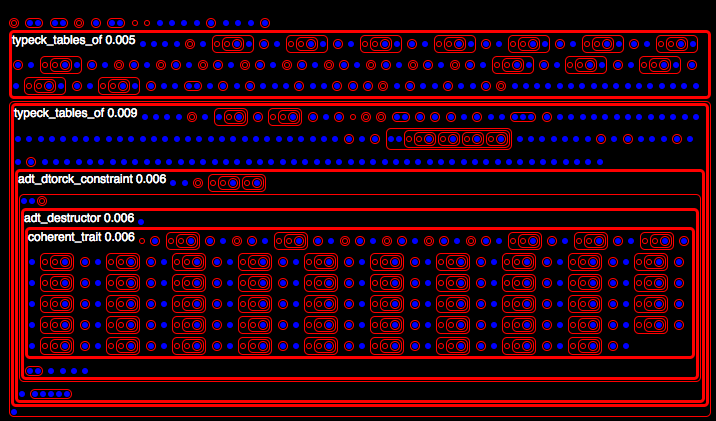
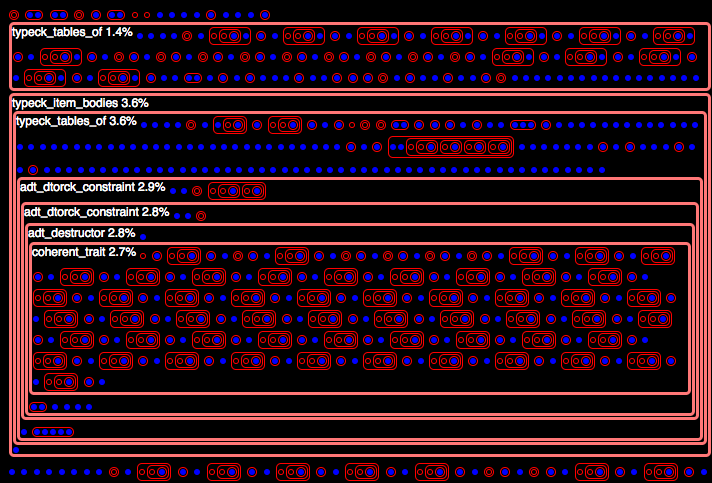
updated doc for updated output, with fractions

diff --git a/profile-queries.md b/profile-queries.md
@@ -11,13 +11,13 @@ how we profile it. We intend this profiling effort to address
 
 ## Quick Start
 
-1. Compile the compiler, as usual
+Compile the compiler, as usual:
 
 ```
 python x.py --stage 1
 ```
 
-2. Run the compiler on a source file:
+Run the compiler on a source file:
 
 ```
 rustc -Z profile-queries -Z dump-dep-graph foo.rs
@@ -36,7 +36,9 @@ This command will generate the following files:
   the [trace of queries](#trace-of-queries).
 - `profile_queries.counts.txt` consists of a histogram, where each histogram "bucket" is a query provider.
 
-Older stuff, also generated as output:
+Begin by opening the first HTML file with a browser.  See [this section](#interpret-the-html-output) for an explanation of this file.
+
+Older stuff, also generated as output (you can _ignore these files_; we won't discuss them further here):
 
 - `dep_graph.dot` consists of old stuff: a representation of dependencies that are _outside_ the newer query model.
 - `dep_graph.txt` consists of old stuff: a representation of dependencies that are _outside_ the newer query model.
@@ -57,32 +59,41 @@ short prefix of the total output; the _actual_ output is much longer.
 ### Example 0 explanation
 
 The trace of the queries has a formal structure; see
-[Trace of Queries](#trace-of-queries), for more details.
+[Trace of Queries](#trace-of-queries) for details.
+
+We style this formal structure as follows:
 
 - Blue dots represent query hits.  They consist of leaves in the
-  trace's tree. CSS class: `hit`.
+  trace's tree. (CSS class: `hit`).
 - Red boxes represent query misses. They consist of internal nodes in
-  the trace's tree. CSS class: `miss`.
+  the trace's tree. (CSS class: `miss`).
 - Some red boxes are _nested within others_.  This nesting structure
   reflects that some providers _depend on_ results from other
   providers, which consist of their nested children.
 	  - For example, the red box labeled as `typeck_tables_of` depends
 		on the one labeled `adt_dtorck_constraint`, which itself
 		depends on one labeled `coherent_trait`.
-- Some red boxes are _labeled_ with text.  (See
-  [heuristics](#heuristics) for details).  Where they are present, the
-  labels give the following information:
+- Some red boxes are _labeled_ with text, and have highlighted borders
+  (light red, and bolded).  (See [heuristics](#heuristics) for
+  details).  Where they are present, the labels give the following
+  information:
      - The [query's _provider_](#queries), sans its _key_ and its _result_,
        which are often too long to include in these labels.
-     - The _duration_ of the provider, in seconds. This time includes
-       the query's entire extent (that is, the sum total of all of its
+     - The _duration_ of the provider, as a fraction of the total time
+       (for the entire trace). This fraction includes the query's
+       entire extent (that is, the sum total of all of its
        sub-queries).
 
 
 ## Heuristics
 
-XXX
+Heuristics-based CSS Classes:
 
+- `important` -- Trace nodes are `important` if they have an extent of
+  6 (or more), _or_ they have a duration fraction of one percent (or
+  more).  These numbers are simple hueristics (currently hard-coded,
+  but easy to modify).  Important nodes are styled with textual
+  labels, and highlighted borders (light red, and bolded).
 
 # Background
 
